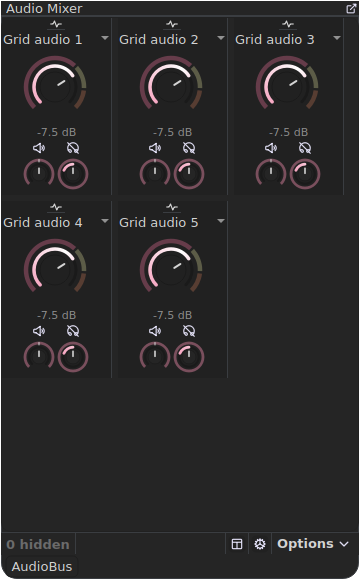
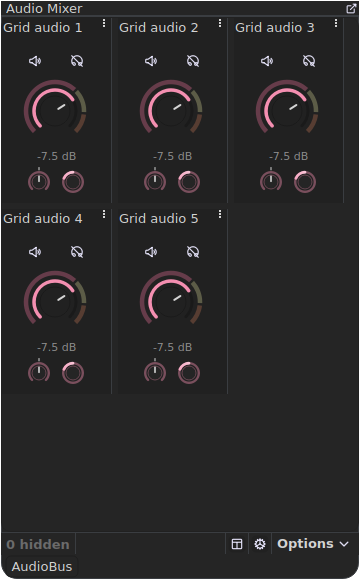
Refresh documentation and native screenshots for current Aftermarket

diff --git a/README.md b/README.md
@@ -57,7 +57,7 @@ Keep the familiar native mixer or customize selected channels:
 
 ![Side-by-side rotary channels wrap into rows when dock height allows](docs/screenshots/readme/mixer-rotary-columns.png)
 
-The rotary screenshots show an earlier compact layout in an isolated OBS 32.2.0 test profile with five synthetic audio sources and the Fluffy Dark Colorway theme. To adjust sync, drag up/right or down/left, or scroll (10 ms per pixel of combined drag or wheel detent), hold Shift for 1 ms, or right-click for exact entry. The indicator turns continuously; the actual offset is clamped, not wrapped.
+The rotary screenshots show the revised single-scale side controls, reclaimed channel header, and compact grid in isolated OBS 32.2.0 sessions using the native dark theme and Colorway Fluffy Dark. To adjust sync, drag up/right or down/left, or scroll (10 ms per pixel of combined drag or wheel detent), hold Shift for 1 ms, or right-click for exact entry. The indicator turns continuously; the actual offset is clamped, not wrapped.
 
 **Optional independent device sends:** install [Exeldro's Audio Monitor](https://obsproject.com/forum/resources/audio-monitor.1186/) to expose playback devices below the native track nodes. Drag a source to a device; right-click its wire for independent mute, gain, pan and delay. Choose visible destinations from the mixer title menu. Existing Audio Monitor filters are not taken over by Aftermarket. Without the plugin, the native graph works normally.
 
@@ -193,6 +193,17 @@ information symbol appears only when a note exists: hover to read the native
 tooltip, click to edit. Search scene, source and filter notes through @.
 No notes dock or broadcast source is required.
 
+| Native Sources note marker | Native Scenes note marker |
+| :---: | :---: |
+| ![Source note marker beside visibility and lock](docs/screenshots/readme/source-notes.png) | ![Scene note marker at the trailing edge](docs/screenshots/readme/scene-notes.png) |
+
+![Native note tooltip](docs/screenshots/readme/note-tooltip.png)
+
+Notes live in a local, owner-only `context-notes.json` file, separate from
+scene exports and workspace checkpoints. Back it up independently.
+Scene grid mode and scene rows without enough spare width retain the
+context-menu action without a marker. [Notes guide](docs/user-guide.md#contextual-notes).
+
 ### Quick Find
 
 Click outside either the compact Add Source picker or the Quick Find popup to dismiss it.
@@ -250,6 +261,11 @@ palette. Optional refinements include:
 
 ![Native Color Correction filter settings reflowed into three columns](docs/screenshots/readme/responsive-filter-properties.webp)
 
+![Aligned label and editor columns inside a native property section](docs/screenshots/readme/responsive-section-controls.png)
+
+The section detail is cropped from a real isolated native properties
+dialog using a synthetic Camera Controls group, not a physical camera.
+
 **Property presets:** choose a saved preset, Load, Save a new preset, or use
 the overflow menu to update, rename, delete, or undo the last load. Presets
 are scoped to the exact source/filter type. In Filters, toggle **Whole filter chain** in the overflow menu to save or replace an ordered chain, including settings and enabled state. Import/export supports both preset scopes. Native Defaults and source
@@ -296,7 +312,7 @@ DPI configurations, and OBS versions need additional verification.
 The [Linux CI workflow](.github/workflows/ci.yml) targets Ubuntu 24.04 and
 a SHA-256-pinned OBS 32.2.0 SDK. It checks local README links, builds the
 module, runs the native Qt/libobs CTest suite under an isolated X display
-(CI baseline: at least 32 tests, no skips; current local suite: 39), stages the plugin, checks linked libraries
+(CI baseline: at least 32 tests, no skips; current local suite: 44), stages the plugin, checks linked libraries
 and the exact package contents, and verifies the archive checksum.
 It does not install into a user's profile, publish release assets, or
 claim Windows, macOS, or OBS 33 support.
@@ -304,8 +320,10 @@ claim Windows, macOS, or OBS 33 support.
 | Target | Verification boundary |
 | --- | --- |
 | Linux x86_64 / OBS 32.2 / Qt 6.4.2 | Local native tests and isolated OBS GUI exercises |
-| Ubuntu 24.04 / pinned OBS 32.2 SDK | Local CI driver passed; hosted result pending |
+| Ubuntu 24.04 / pinned OBS 32.2 SDK | Historical local SDK/package qualification passed; latest hosted run failed two UI tests |
 | Windows, macOS, OBS 31/33 | Not qualified |
+
+The latest completed hosted run ([45740037866](https://github.com/myrqyry/aftermarket/actions/runs/45740037866), commit `58df432`) failed the command-center visibility and menu-anchor assertions (42/44 passed). The newer local build at `f111fbe` passed 44/44. These are different environments; hosted qualification remains open.
 
 For a local build using matching development headers, use the commands
 above. The same CI validation driver can also run against an explicit
@@ -324,5 +342,5 @@ when ready.
 - [Verification and development history](ACTIVE_WORK.md) — implementation checkpoints and real runtime evidence.
 
 Screenshots are captured from real, isolated OBS sessions with native themes
-and Colorway. Workspace, Quick Find and responsive properties images reflect the current interface; other feature screenshots may depict earlier verified builds. The project is independent of OBS Studio and does not replace its
+and Colorway. The rotary mixer, contextual notes and responsive section detail were refreshed on November 25, 2026. Other captures illustrate their verified feature state and may predate subsequent UI refinements. The project is independent of OBS Studio and does not replace its
 theme system or streaming compositor.

diff --git a/docs/user-guide.md b/docs/user-guide.md
@@ -159,6 +159,12 @@ as `propertyColumns` (0 = Auto, 1–3 = maximum columns) in rules.json.
 
 ![Actual native Color Correction controls in three responsive columns](screenshots/readme/responsive-filter-properties.webp)
 
+![Aligned native controls within a responsive property group](screenshots/readme/responsive-section-controls.png)
+
+The second image is a detail crop of a synthetic Camera Controls group in
+the native properties dialog, using Colorway Fluffy Dark. No physical
+camera was accessed.
+
 Property-group folding is off by default and saved as `collapsiblePropertyGroups` in
 `rules.json`. It affects native `OBSPropertiesView` **ordinary QGroupBox sections**
 only, not ungrouped filter controls or checkable enable/disable groups. Expanded
@@ -465,7 +471,9 @@ Create a named checkpoint to request a native OBS save, verify that the current 
 was written, and capture its scene JSON, current native dock state, plus existing
 Aftermarket rules, Action Strip, Cue Deck, layout library, mixer ordering, device
 visibility, dock title and source picker settings. Missing configuration files
-are recorded rather than invented. The manager keeps up to 32 local, checksum-verified
+are recorded rather than invented. The checkpoint allowlist does not include
+`context-notes.json` or `property-presets.json`; back up those files separately
+with OBS closed. They may contain private information. The manager keeps up to 32 local, checksum-verified
 bundles in `plugin_config/aftermarket/workspace-checkpoints`; it never overwrites an
 existing checkpoint. Invalid bundles remain untouched.
 
@@ -753,10 +761,16 @@ retain their native appearance; the context-menu note action is still
 available. Native filter dialogs are unchanged. Notes on filters remain
 accessible in the inspector and search.
 
+| Source marker | Scene marker |
+| --- | --- |
+| ![Native source note glyph](screenshots/readme/source-notes.png) | ![Native scene note glyph](screenshots/readme/scene-notes.png) |
+
+![Native hover note tooltip](screenshots/readme/note-tooltip.png)
+
 Notes are stored locally in Aftermarket's `context-notes.json` using stable
 OBS UUIDs, with the parent UUID for filters and owner scene UUID plus scene-item
 ID for item notes. One note per attachment. The file is separate from scene
-collection export, is not encrypted, and is never sent to a broadcast output.
+collection export and workspace checkpoints, is not encrypted, and is never sent to a broadcast output. Back it up separately.
 Shared source notes are distinct from notes on individual placements. Renames
 do not change identity. Deleting an OBS object does not automatically delete
 its stored note; only currently discoverable objects appear in search.
@@ -948,8 +962,7 @@ a knob, Silent test remained a fader; the reactive ring animated (242 changed
 pixels, silent fader zero); native volume moved from -12.0 dB to -3.5 dB after
 a drag; disabling knobs restored the slider at -3.5 dB. Qt regressions cover
 target selection, slider signals, programmatic updates, native key handling,
-invalid config and restoration. Horizontal mixer layouts, live source rename
-and theme changes under knob sizing need further real runtime testing.
+invalid config and restoration. Subsequent isolated native tests cover both mixer orientations, compact layout, relative drag, reset actions and narrow channel geometry. Broader live rename/rebuild and theme-switch combinations remain unqualified.
 
 ### Integrated knob meters
 
@@ -1459,17 +1472,21 @@ Inspector slice verification (same isolated OBS configuration):
 Real OBS testing is limited to Linux/X11 with OBS 32.2.0 and Qt 6.4.2, using native themes and Colorway.
 Additional themes, DPI scaling, RTL, other platforms and unsupported native widgets need validation. See the [verification history](../ACTIVE_WORK.md) for individual runtime receipts and known limitations.
 
-Current local verification: **43/43 CTests passed**. Isolated OBS runs
+Current local verification at `f111fbe` (November 25, 2026): **44/44 CTests passed**. Isolated OBS runs
 covered responsive source/filter settings, dynamic property reloads, native
 mixer reorder and optional device sends, checkpoint capture, Source Dock
 pinning and lightweight previews, and the unified Workspace with emergency
 recovery during an open checkpoint dialog. Additional native probes cover
 property presets and portable filter chains, picker dismissal, bounded dock
-motion, mixer reflow and relative sync encoder input. The two-sided mixer flip is tested with bounded face captures and painted-frame geometry checks. The installed modules were also
+motion, mixer reflow and relative sync encoder input. Recent native probes
+passed 19/19 narrow mixer checks, 7/7 responsive section checks and 35/35
+contextual-note checks (native rows plus inspector/search). The two-sided mixer flip is tested with bounded face captures and painted-frame geometry checks. The installed modules were also
 loaded together in a disposable profile; OBS exited normally. No claim is
 made that every combination of plugins, source types, hardware or graphics
 drivers has been exercised. Optional preview caching is SDR-only and total
-GPU savings have not been benchmarked.
+GPU savings have not been benchmarked. Hosted Linux CI has not yet passed
+the latest completed run: two UI assertions failed at `58df432`. See
+[CI and package verification](ci.md) for the exact verification boundary.
 
 ### Disable/remove
 

diff --git a/docs/ci.md b/docs/ci.md
@@ -47,7 +47,36 @@ The pinned OBS 32.2.0 SDK was downloaded, checksum-verified and built
 from source. A clean Release build of the committed source plus this
 CI change passed all 32 CTest cases, the module-only package allowlist,
 shared-library checks, SHA-256 verification and extraction comparison.
-GitHub-hosted success is not yet established. The current local regression suite has since grown to 39 tests; the original 32-test SDK/package qualification above is historical, not a claim that the latest package was requalified against that SDK.
+The original 32-test SDK/package qualification above is historical, not a
+claim that the latest package was requalified against that SDK.
+
+## Current qualification — 2026-11-25
+
+The local build at `f111fbe` passed all **44/44 CTests** using the installed
+OBS 32.2.0 SDK and Qt 6.4.2. The CI minimum is still 32; the gate runs
+every registered test and rejects skipped or failing tests.
+
+The latest completed hosted run before this documentation refresh,
+[45740037866](https://github.com/myrqyry/aftermarket/actions/runs/45740037866)
+at `58df432`, successfully prepared the pinned SDK and built the module,
+but failed two of 44 tests:
+
+- `command-center`: line 31, launcher visibility assertion.
+- `menu-augmentation`: line 363, popup anchor-distance assertion.
+
+The package/checksum stages did not complete. The difference between local
+and hosted UI behavior remains to be investigated; neither test is waived.
+A new push triggers the existing workflow, not a release.
+
+Run local relative-link checks for the maintained documentation with:
+
+    python3 .github/scripts/test-readme-links.py
+    for doc in README.md docs/*.md .meristem/PROJECT.md ACTIVE_WORK.md; do
+      python3 .github/scripts/check_readme_links.py "$doc"
+    done
+
+These checks cover relative file targets, not remote sites or every
+heading anchor.
 
 The temporary archives are intentionally not release packages. Public
 redistribution requires the owner to establish licensing, provenance and

diff --git a/ACTIVE_WORK.md b/ACTIVE_WORK.md
@@ -1,5 +1,17 @@
 # Active work
 
+## Current handoff — 2026-11-25
+
+Implementation checkpoint: `f111fbe` (native scene/source notes), installed
+with rollback. Local 44/44 CTests; native notes 35/35, latest narrow
+mixer 19/19 and property section 7/7. Current user-facing behavior is in
+README.md and docs/user-guide.md. Current CI boundary is in docs/ci.md:
+last completed hosted run 45740037866 at 58df432 failed command-center
+and menu-augmentation; do not confuse local success with hosted qualification.
+Workspace checkpoints exclude contextual notes and property preset files.
+The entries below are chronological historical evidence, not a current
+feature checklist.
+
 Outcome: first real slice of Tampermonkey for OBS — independent artwork applied to real context-menu actions.
 Verified: CMake module build against local libobs and Qt 6.4.2; Qt regression suite; OBS 32.2.0 isolated Xvfb profile with actual Colorway Rosé Pine — Pine theme and assets; 22 decorated actions, on/off/on rules hot reload, real pointer-click Rename opened native inline editor, isolated process graceful shutdown. Before/after and rename screenshots in docs/screenshots.
 Locked: OBS receives only the transparent layout reservation; actual SVG rendered by our plugin; no OBS data/stream changes; no fork. Preserve original action state and existing icons unless rule opts in.

diff --git a/docs/dock-backsides-design.md b/docs/dock-backsides-design.md
@@ -1,6 +1,6 @@
 # Aftermarket: dock faces, header controls, and native audio patchbay
 
-Status: **historical design proposal** (2026-11-21). Retained for provenance, not current product instructions. AudioBus and native dock headers are implemented; the [current user guide](user-guide.md#mixer-and-audiobus) supersedes this proposal, including optional Audio Monitor device sends.
+Status: **historical design proposal** (2026-11-21). Retained for provenance, not current product instructions. AudioBus and native dock headers are implemented; the [current user guide](user-guide.md#mixer-and-audiobus) supersedes this proposal, including optional Audio Monitor device sends, the current compact rotary mixer and its bounded two-sided flip. The following proposal is retained unchanged as historical design context.
 Owner: `obs-ui-augment/`, project-facing name Aftermarket.
 
 ## Intent and accepted direction

diff --git a/.meristem/PROJECT.md b/.meristem/PROJECT.md
@@ -9,4 +9,10 @@ without premature rewrites.
 Identity: module and config directory use aftermarket; migration preserves the
 previous obs-ui-augment configuration and package. Local checkout remains
 obs-ui-augment to preserve existing workspace references. No OBS fork or video effects.
-See ACTIVE_WORK.md for verified slices and remaining gaps.
+Current capabilities include native mixer/AudioBus faces, responsive
+property forms, source/filter presets, native command/search surfaces,
+theme-aware plugin icons and private contextual notes on scene/source rows.
+The local runtime target is OBS 32.2.0 / Qt 6.4.2 / Linux X11.
+See README.md and docs/user-guide.md for current behavior, docs/ci.md
+for qualification boundaries, and ACTIVE_WORK.md for historical receipts.
+Local success does not imply hosted CI or cross-platform qualification.

diff --git a/docs/dock-layouts.md b/docs/dock-layouts.md
@@ -14,7 +14,9 @@ Save and restore native OBS dock arrangements using Qt dock state. Aftermarket d
 
 Open **Workspace checkpoints…** in Dock layouts for named recovery bundles.
 These contain the scene collection, dock state and selected Aftermarket
-settings. Dock-only restore and explicit recovery exports are supported;
+settings. The current checkpoint allowlist does not include private notes
+(`context-notes.json`) or named property presets (`property-presets.json`);
+back up these files separately. Dock-only restore and explicit recovery exports are supported;
 full one-click workspace restoration is not. If Scene Collection Manager
 is loaded, its optional companion backup uses the native backup action and
 verifies the resulting file. See the [checkpoint guide](user-guide.md#workspace-checkpoints).
